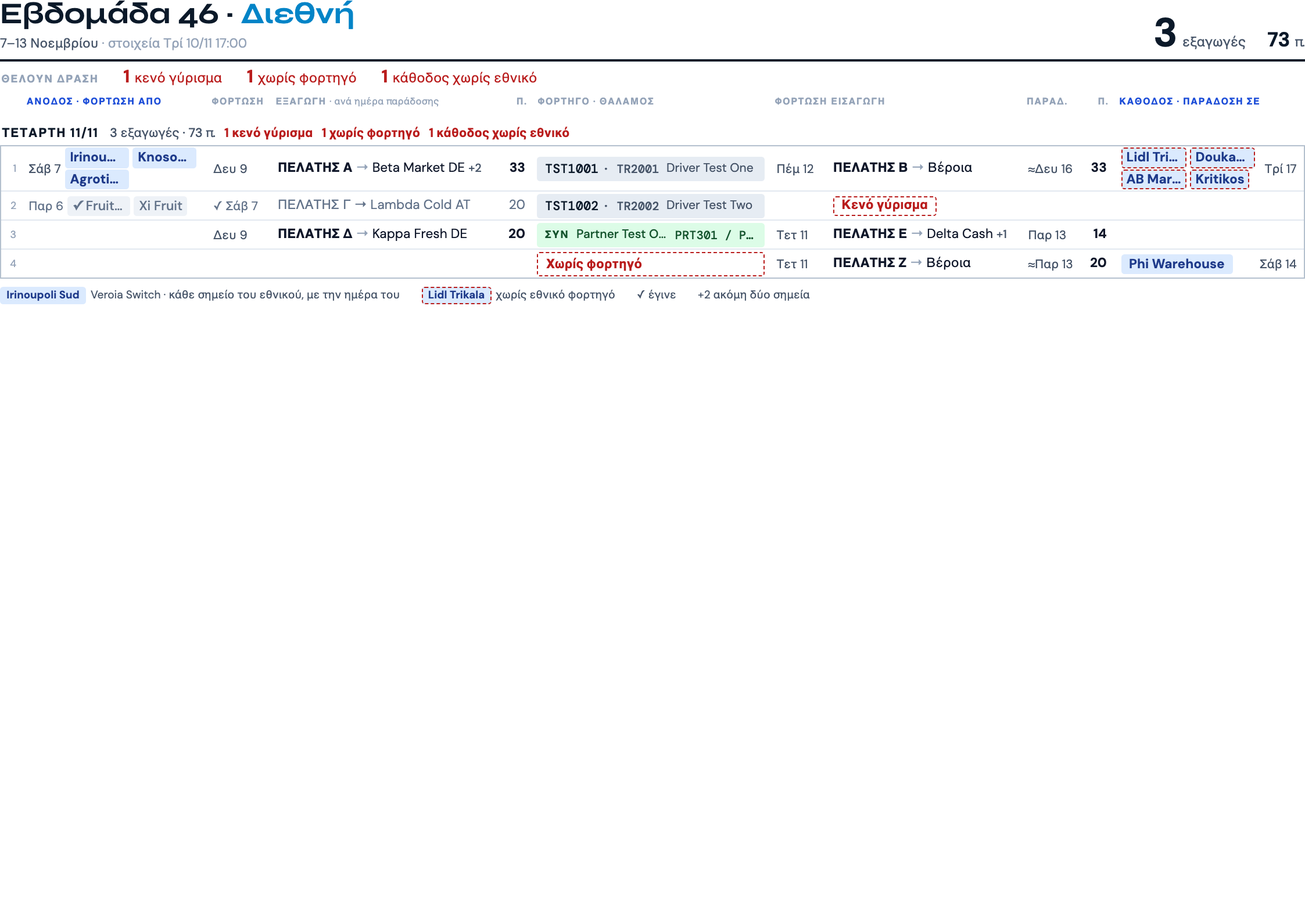
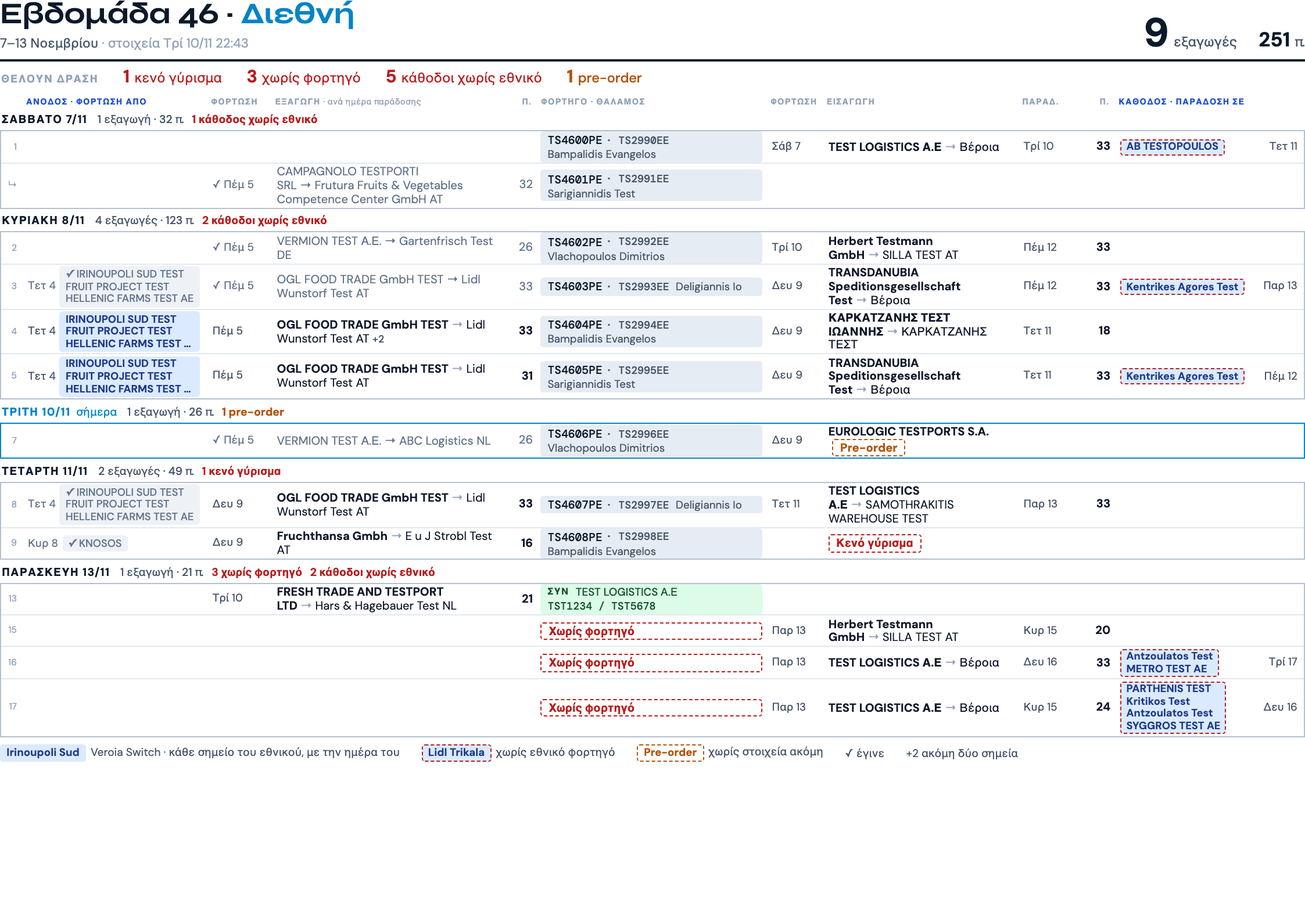
fix(week print): the international sheet holds real names — one national point a line, words wrap, pallets never cut (live week 46, 10/11)

diff --git a/core/week-paper.js b/core/week-paper.js
@@ -18,12 +18,12 @@ const FONTS = 'https://fonts.googleapis.com/css2?family=DM+Sans:wght@400;500;700
 // masthead + strip + column header + legend take 33mm of the first page's 191mm; a later page loses only the
 // repeated column header. A day header costs 1.3 rows.
 const PAGE = Object.freeze({ first: 158, firstNatl: 137, next: 185, minRow: 4.4, maxRow: 6.6, dayUnits: 1.3 });
-function size(nRows, nDays, first) {
-  const F = first || PAGE.first;   // the national sheet has two tables: its fixed part is taller
+function size(nRows, nDays, first, minRow) {
+  const F = first || PAGE.first, MIN = minRow || PAGE.minRow;   // the national sheet has two tables: its fixed part is taller
   const units = Math.max(1, nRows + PAGE.dayUnits * nDays);
   let pages = 1, rh = F / units;
   // .975: a row never breaks in two, so each page boundary wastes up to a part of a row
-  while (rh < PAGE.minRow && pages < 12) { pages++; rh = (F + (pages - 1) * PAGE.next) * 0.975 / units; }
+  while (rh < MIN && pages < 12) { pages++; rh = (F + (pages - 1) * PAGE.next) * 0.975 / units; }
   rh = Math.min(rh, PAGE.maxRow);
   return { pages, rh: +rh.toFixed(2), fs: +Math.max(7.6, Math.min(8.5, rh * 1.7)).toFixed(2) };
 }
@@ -85,7 +85,10 @@ body { padding: 0 !important; margin: 0; }
 .wp .b tr.day.today td { color: var(--blue); }
 .wp .b td.i { color: var(--mut); font-size: .78em; text-align: right; padding: 0 .5em 0 0; font-variant-numeric: tabular-nums; }
 .wp .b td.dt { color: var(--body); font-size: .93em; font-variant-numeric: tabular-nums; }
-.wp .b td.p { text-align: right; font-weight: 700; font-variant-numeric: tabular-nums; }
+.wp .b td.p { text-align: right; font-weight: 700; font-variant-numeric: tabular-nums; padding: 0 .3em 0 0; overflow: visible; }
+/* Real names are long (live week 46, 10/11: «3…» for 33 pallets, destinations cut off whole). The words of a
+   load, of the truck and of the national points take a second line before they are cut: the row grows. */
+.wp .b td.wr { white-space: normal; line-height: 1.16; padding-top: .12em; padding-bottom: .12em; }
 .wp .cl { font-weight: 700; }
 .wp .ar { color: var(--mut); margin: 0 .25em; }
 .wp .more { color: var(--body); font-size: .88em; font-weight: 500; }
@@ -93,18 +96,20 @@ body { padding: 0 !important; margin: 0; }
 .wp .b td.dn, .wp .b td.dn .cl, .wp .b td.dn .ar, .wp .b td.dn .more { color: var(--done); font-weight: 400; }
 .wp .tick { margin-right: .25em; }
 .wp .b td.tkc { padding: 0 .35em; }
-.wp .tk { display: flex; align-items: center; gap: .55em; background: var(--tk); border-radius: 2pt; height: calc(var(--rh) - 1.1mm); line-height: 1;
-  padding: 0 .6em; overflow: hidden; }
+.wp .tk { display: flex; align-items: center; gap: .1em .55em; background: var(--tk); border-radius: 2pt; min-height: calc(var(--rh) - 1.1mm); line-height: 1.1;
+  padding: .12em .6em; overflow: hidden; }
+/* in a row that is already tall (its load or its points take lines) the driver goes under the plates, whole;
+   in a one-line row he stays beside them and is cut: the truck alone never makes a row taller */
+.wp .tk.w { flex-wrap: wrap; }
 .wp .tk .pl { flex: none; font: 500 .97em 'DM Mono', monospace; color: var(--navy); }
 /* the trailer's plate (Pantelis 10/11, «είναι σημαντικό»): a load is found in the yard by its trailer */
 .wp .tk .tr { flex: none; font: 500 .9em 'DM Mono', monospace; color: var(--body); margin-left: -.3em; }
-.wp .tk .dr { color: var(--body); font-size: .93em; overflow: hidden; text-overflow: ellipsis; }
+.wp .tk .dr { color: var(--body); font-size: .93em; max-width: 100%; overflow: hidden; text-overflow: ellipsis; white-space: nowrap; }
 .wp .tk.p { background: #DCFCE7; }
 .wp .tk.p .pl { font: 700 .8em 'DM Sans', sans-serif; letter-spacing: .08em; color: var(--green); }
 .wp .tk.p .dr { color: var(--green); font-weight: 500; }
-/* a partner's plates are free text of any length: they give way before the name does */
-.wp .tk.p .dr { flex: 0 1 auto; min-width: 5em; }
-.wp .tk.p .tr { flex: 0 10 auto; min-width: 0; overflow: hidden; text-overflow: ellipsis; margin-left: 0; color: var(--green); }
+/* a partner's plates are free text of any length: they go to a line of their own before the name is cut */
+.wp .tk.p .tr { flex: 0 1 auto; min-width: 0; max-width: 100%; overflow: hidden; text-overflow: ellipsis; white-space: nowrap; margin-left: 0; color: var(--green); }
 .wp .tk.x { background: none; border: .9pt dashed var(--red); color: var(--red); font-weight: 700; }
 .wp .gap { display: inline-block; border: .9pt dashed var(--red); color: var(--red); font-weight: 700; border-radius: 2pt; padding: 0 .55em; line-height: 1.32; vertical-align: middle; }
 .wp .gap.am { border-color: var(--amber); color: var(--amber); margin-left: .35em; }
@@ -113,16 +118,13 @@ body { padding: 0 !important; margin: 0; }
 .wp .vs.ok { background: #EEF2F7; border-color: #EEF2F7; color: var(--done); font-weight: 500; }
 .wp .vs.x { border: .9pt dashed var(--red); }
 .wp .vs.q { background: none; border: .9pt dashed var(--mut); color: var(--body); }
-/* The national end of a row (owner 10/11): EVERY point in its own box and the day beside them, so the national
-   dispatcher reads from this sheet what he has to bring and to take. Two boxes share a line and are cut
-   («Irinoupo…») before one is left out; a third starts a second line and the row grows (measured 10/11: four
-   boxes on one line were one letter each). The day never shrinks. */
-.wp .vw { display: flex; align-items: center; gap: .3em; min-width: 0; }
-.wp .vw .vp { flex: 1 1 0; min-width: 0; display: flex; flex-wrap: wrap; gap: .12em .3em; padding: .1em 0; }
-.wp .vw .vs { flex: 0 1 auto; min-width: 0; max-width: calc(50% - .25em); }   /* .25em: two never fill the line to the last sub-pixel, so rounding cannot wrap the second */
-.wp .vw .vp.one .vs { max-width: 100%; }
-.wp .vw .vp:not(.one) .vs { padding: 0 .3em; }
-.wp .vw .vd { flex: none; color: var(--body); font-size: .93em; font-variant-numeric: tabular-nums; }
+/* The national end of a row (owner 10/11): EVERY point and the day beside them, so the national dispatcher reads
+   from this sheet what he has to bring and to take. One blue box, one point a line, cut only at the box's edge:
+   as separate boxes on one line each was four letters on the live week (10/11). The day never shrinks. */
+.wp .vw { display: flex; align-items: center; gap: .35em; min-width: 0; }
+.wp .vw .vs { flex: 0 1 auto; min-width: 0; font-size: .9em; line-height: 1.16; padding: .08em .45em; }
+.wp .vw .vs .pt { display: block; overflow: hidden; text-overflow: ellipsis; white-space: nowrap; }
+.wp .vw .vd { flex: none; color: var(--body); font-size: .93em; font-variant-numeric: tabular-nums; white-space: nowrap; }
 .wp .vw.r .vd { margin-left: auto; padding-left: .2em; }
 .wp .vw.dn .vd { color: var(--done); }
 /* national sheet: section titles, the Veroia ledger (one line per day, numbers only, names where a truck is missing) */
@@ -155,10 +157,9 @@ function vsHTML(v, side) {
   if (!v) return '';
   const cls = { done: ' ok', none: ' x', unknown: ' q' }[v.state] || '';
   const pts = v.points && v.points.length ? v.points : ['—'];
-  const boxes = pts.map((n, i) => `<span class="vs${cls}">${v.state === 'done' && i === 0 ? '✓ ' : ''}${_esc(pointName(n))}</span>`).join('');
+  const box = `<span class="vs${cls}">${pts.map((n, i) => `<span class="pt">${v.state === 'done' && i === 0 ? '✓ ' : ''}${_esc(pointName(n))}</span>`).join('')}</span>`;
   const day = v.date ? `<span class="vd">${_esc(v.date)}</span>` : '';
-  const pack = `<div class="vp${pts.length === 1 ? ' one' : ''}">${boxes}</div>`;
-  return `<div class="vw${side === 'dn' ? ' r' : ''}${v.state === 'done' ? ' dn' : ''}">${side === 'dn' ? pack + day : day + pack}</div>`;
+  return `<div class="vw${side === 'dn' ? ' r' : ''}${v.state === 'done' ? ' dn' : ''}">${side === 'dn' ? box + day : day + box}</div>`;
 }
 // x = an export or import side: {client, dest, more, piece, lot, pre}. An import pre-order has no place yet and
 // is drawn by rowHTML (client + tag); an export pre-order keeps its route and gets the tag after it. «ΑΠ» = a piece taken from stock; a lot goes
@@ -168,11 +169,12 @@ function sideHTML(x) {
   return `${x.piece ? '<span class="more">ΑΠ</span> ' : ''}<span class="cl">${_esc(x.client || '—')}</span><span class="ar">→</span>${_esc(x.dest || '—')}${m}` +
     (x.lot ? ' <span class="more">→ ΑΠΟΘΗΚΗ</span>' : '') + (x.pre ? ' <span class="gap am">Pre-order</span>' : '');
 }
-function truckHTML(t) {
+function truckHTML(t, tall) {
+  const w = tall ? ' w' : '';
   if (!t || t.kind === 'none') return '<td class="tkc"><div class="tk x">Χωρίς φορτηγό</div></td>';
   // a partner's plates are free text («ΕΚΑ1234 / Ρ5678»): after the name, which is what the office knows him by
-  if (t.kind === 'par') return `<td class="tkc"><div class="tk p"><span class="pl">ΣΥΝ</span><span class="dr">${_esc(t.name || '—')}</span>${t.plates ? `<span class="tr">${_esc(t.plates)}</span>` : ''}</div></td>`;
-  return `<td class="tkc"><div class="tk"><span class="pl">${_esc(t.plate || '—')}</span>${t.trailer ? `<span class="tr">· ${_esc(t.trailer)}</span>` : ''}<span class="dr">${_esc(t.name || '')}</span></div></td>`;
+  if (t.kind === 'par') return `<td class="tkc"><div class="tk p${w}"><span class="pl">ΣΥΝ</span><span class="dr">${_esc(t.name || '—')}</span>${t.plates ? `<span class="tr">${_esc(t.plates)}</span>` : ''}</div></td>`;
+  return `<td class="tkc"><div class="tk${w}"><span class="pl">${_esc(t.plate || '—')}</span>${t.trailer ? `<span class="tr">· ${_esc(t.trailer)}</span>` : ''}<span class="dr">${_esc(t.name || '')}</span></div></td>`;
 }
 // unknown pallets are «—», never 0; a group with a member off the record says «22+;» (the board's «22 +?»)
 const _unk = (x) => x.pallets == null || x.pallets === '';
@@ -181,13 +183,13 @@ const _arrow = (s) => _esc(s).replace(/ → /g, '<span class="ar">→</span>');
 
 function rowHTML(r, cls) {
   const ex = r.ex, im = r.im;
-  const c = [`<td class="i">${_esc(r.no == null ? '' : r.no)}</td>`, `<td>${vsHTML(r.up, 'up')}</td>`];
+  const c = [`<td class="i">${_esc(r.no == null ? '' : r.no)}</td>`, `<td class="wr">${vsHTML(r.up, 'up')}</td>`];
   if (ex) {
     const g = ex.done ? ' dn' : '';
     c.push(`<td class="dt${g}">${ex.done ? '<span class="tick">✓</span>' : ''}${_esc(ex.date || '—')}</td>`,
-      `<td class="${g.trim()}">${sideHTML(ex)}</td>`, `<td class="p${g}">${_pal(ex)}</td>`);
+      `<td class="wr${g}">${sideHTML(ex)}</td>`, `<td class="p${g}">${_pal(ex)}</td>`);
   } else c.push('<td></td><td></td><td></td>');
-  c.push(truckHTML(r.truck));
+  c.push(truckHTML(r.truck, rowLines(r) > 1));
   // The import's two days stand each beside its own point (Pantelis 10/11): loading before the client, delivery
   // after the destination.
   if (r.gap) c.push('<td></td>', '<td><span class="gap">Κενό γύρισμα</span></td>', '<td></td>', '<td></td>');
@@ -196,9 +198,9 @@ function rowHTML(r, cls) {
     const g = im.done ? ' dn' : '';
     const txt = im.pre ? `<span class="cl">${_esc(im.client || '—')}</span> <span class="gap am">Pre-order</span>` : sideHTML(im);
     c.push(`<td class="dt${g}">${im.done ? '<span class="tick">✓</span>' : ''}${_esc(im.load || '—')}</td>`,
-      `<td class="${g.trim()}">${txt}</td>`, `<td class="dt${g}">${_esc(im.del || '')}</td>`, `<td class="p${g}">${im.pre && !(+im.pallets > 0) ? '' : _pal(im)}</td>`);   // a pre-order's 0 is nobody's count
+      `<td class="wr${g}">${txt}</td>`, `<td class="dt${g}">${_esc(im.del || '')}</td>`, `<td class="p${g}">${im.pre && !(+im.pallets > 0) ? '' : _pal(im)}</td>`);   // a pre-order's 0 is nobody's count
   } else c.push('<td></td><td></td><td></td><td></td>');
-  c.push(`<td>${vsHTML(r.dn, 'dn')}</td>`);
+  c.push(`<td class="wr">${vsHTML(r.dn, 'dn')}</td>`);
   return `<tr class="${cls.join(' ')}">${c.join('')}</tr>`;
 }
 
@@ -231,6 +233,14 @@ function workWords(t) {
   ].filter(Boolean);
 }
 
+// Letters one line of a column takes, at the sheet's own type (CAP), and the lines a row needs (1–4).
+const CAP = Object.freeze({ ex: 30, im: 26 });
+function rowLines(r) {
+  const len = (x) => (x ? String(x.client || '').length + String(x.dest || '').length + 3 + (x.more ? 3 : 0) + (x.pre ? 10 : 0) + (x.lot ? 10 : 0) : 0);
+  const vs = (v) => (v && v.points ? v.points.length : 0);
+  return Math.min(4, Math.max(1, vs(r.up), vs(r.dn), Math.ceil(len(r.ex) / CAP.ex), Math.ceil(len(r.im) / CAP.im)));
+}
+
 /** p = { week, range, stamp, days: [{ head, today, rows: [row] }] }; row = { no, up, ex, truck, im, gap, dn };
  *  up / dn = { points, date, state }; truck = { kind, plate, trailer, name } | { kind:'par', name, plates }; im = { load, del, … }
  *  (see rowHTML / vsHTML / sideHTML for the fields; a side's pallets: null = unknown, palMiss = partly known;
@@ -238,10 +248,12 @@ function workWords(t) {
 function intlHTML(p) {
   const days = (p.days || []).filter((d) => d.rows && d.rows.length);
   const all = days.reduce((a, d) => a.concat(d.rows), []);
-  // a national end with more than two points takes a second line (two boxes a line): the page arithmetic counts it
-  const lines = (v) => (v && v.points ? Math.max(1, Math.ceil(v.points.length / 2)) : 1);
-  const extra = all.reduce((n, r) => n + Math.max(lines(r.up), lines(r.dn)) - 1, 0);
-  const sz = size(all.length + extra * 0.9, days.length), T = tally(all);
+  // Rows grow when their words take more lines: the page arithmetic counts them — one line per national point,
+  // and the letters of a load or a truck against what one line of its column takes (measured on the live week
+  // 46, 10/11). An estimate, on the generous side: a sheet that leaves room is better than one row alone on a
+  // second page. A line more costs .9 of a row, and single rows may be 4mm here (the type stays 7.6pt).
+  const extra = all.reduce((n, r) => n + (rowLines(r) - 1) * 0.9, 0);
+  const sz = size(all.length + extra, days.length, PAGE.first, 4), T = tally(all);
   const body = [];
   for (const d of days) {
     const t = tally(d.rows);
@@ -268,7 +280,7 @@ function intlHTML(p) {
   return `<link rel="stylesheet" href="${FONTS}" media="none" onload="this.media='all'"><style>${CSS}
 @page { @bottom-left { content: "Petras Group TMS · ${title} · στοιχεία ${_esc(p.stamp)}"; font: 7pt 'DM Sans', sans-serif; color: #94A3B8; } }
 .wp { --fs:${sz.fs}pt; --rh:${sz.rh}mm; }
-.wp col.k-i{width:1.6%} .wp col.k-up{width:14.2%} .wp col.k-ed{width:4.9%} .wp col.k-ex{width:17.6%} .wp col.k-p{width:2.5%} .wp col.k-tk{width:18.2%} .wp col.k-id{width:4.3%} .wp col.k-im{width:15%} .wp col.k-dl{width:4.6%} .wp col.k-dn{width:14.6%}
+.wp col.k-i{width:1.6%} .wp col.k-up{width:14.2%} .wp col.k-ed{width:4.9%} .wp col.k-ex{width:17.6%} .wp col.k-p{width:2.8%} .wp col.k-tk{width:17.6%} .wp col.k-id{width:4.3%} .wp col.k-im{width:15%} .wp col.k-dl{width:4.6%} .wp col.k-dn{width:14.6%}
 </style><div class="wp">
 <header class="mast"><div><h1>Εβδομάδα ${_esc(p.week)} · <em>Διεθνή</em></h1><div class="sub">${_esc(p.range)} <i>· στοιχεία ${_esc(p.stamp)}</i></div></div>
 <div class="kpi"><span class="big"><b>${T.exports}</b><span>${T.exports === 1 ? 'εξαγωγή' : 'εξαγωγές'}</span></span><span class="mid"><b>${T.pallets}</b><span>π.${T.palUnknown ? ' +;' : ''}</span></span></div></header>

diff --git a/tests/week-paper.test.js b/tests/week-paper.test.js
@@ -44,8 +44,8 @@ test('rows: a day without rows is not printed, today is the one blue day, unknow
   assert.ok(!h.includes('ΤΕΤΑΡΤΗ 7/10'));
   assert.ok(h.includes('<td class="p">—</td>'), 'unknown export pallets are «—»');
   assert.ok(h.includes('20 π. +;'), 'a day sum with an unknown says so');
-  assert.ok(h.includes('<span class="vs q">Doukato</span><span class="vs q">Epsilon</span>'), 'a national read that has not answered is its own state');
-  assert.ok(h.includes('<span class="vs ok">✓ Irinoupoli Sud</span><span class="vs ok">Beta Farm</span>'), 'the point, not the town; done = ✓');
+  assert.ok(h.includes('<span class="vs q"><span class="pt">Doukato</span><span class="pt">Epsilon</span></span>'), 'a national read that has not answered is its own state');
+  assert.ok(h.includes('<span class="vs ok"><span class="pt">✓ Irinoupoli Sud</span><span class="pt">Beta Farm</span>'), 'the point, not the town; done = ✓');
   assert.ok(h.includes('Partner &lt;One&gt;') && !h.includes('<One>'), 'names are escaped');
   assert.ok(h.includes('1 εισαγωγή') === false && h.includes('1 εξαγωγή · 20 π.'), 'the day header counts its own rows');
 });
@@ -65,7 +65,7 @@ test('stock marks and partly known pallets are said, and the legend explains onl
   assert.strictEqual((preEx.slice(preEx.indexOf('<tbody>'), preEx.indexOf('</tbody>')).match(/>Pre-order</g) || []).length, 2, 'an export pre-order is tagged too, each once');
   assert.ok(preEx.includes('<b>2</b>pre-order'));
   const pre0 = one({ no: 1, truck: { kind: 'none' }, im: im({ pre: true, pallets: 0 }) });
-  assert.ok(pre0.includes('<td class="p"></td><td></td></tr>'), 'no «0» for a pre-order');
+  assert.ok(pre0.includes('<td class="p"></td><td class="wr"></td></tr>'), 'no «0» for a pre-order');
 });
 
 test('a day of imports only says «εισαγωγές», never «0 εξαγωγές»', () => {
@@ -104,11 +104,11 @@ test('owner + Pantelis 10/11: every national point with its day, the import days
       im: im({ load: 'Τρί 10', del: '≈Τετ 11', dest: 'Βέροια' }), dn: { points: ['Delta Cash', 'Epsilon Market'], date: 'Πέμ 12', state: 'none' } },
     { no: 2, ex: ex({}), truck: { kind: 'par', name: 'Partner One', plates: 'PRT-1 / PRT-2' } }] }] });
   // all three loading points, none hidden behind «+2», the day first
-  assert.ok(h.includes('<div class="vw"><span class="vd">Σάβ 7</span><div class="vp"><span class="vs">Alpha Depot</span><span class="vs">Beta Farm</span><span class="vs">Gamma Coop</span></div></div>'));
+  assert.ok(h.includes('<div class="vw"><span class="vd">Σάβ 7</span><span class="vs"><span class="pt">Alpha Depot</span><span class="pt">Beta Farm</span><span class="pt">Gamma Coop</span></span></div>'));
   // both delivery points, red dashed (no national truck), the day last
-  assert.ok(h.includes('<div class="vw r"><div class="vp"><span class="vs x">Delta Cash</span><span class="vs x">Epsilon Market</span></div><span class="vd">Πέμ 12</span></div>'));
+  assert.ok(h.includes('<div class="vw r"><span class="vs x"><span class="pt">Delta Cash</span><span class="pt">Epsilon Market</span></span><span class="vd">Πέμ 12</span></div>'));
   // the import: loading day before it, delivery day after it, in cells of their own
-  assert.ok(/<td class="dt">Τρί 10<\/td><td class="">.*?Βέροια<\/td><td class="dt">≈Τετ 11<\/td>/.test(h));
+  assert.ok(/<td class="dt">Τρί 10<\/td><td class="wr">.*?Βέροια<\/td><td class="dt">≈Τετ 11<\/td>/.test(h));
   assert.ok(h.includes('<span class="pl">TST-1</span><span class="tr">· TRL-9</span><span class="dr">Driver 1</span>'));
   assert.ok(h.includes('<span class="dr">Partner One</span><span class="tr">PRT-1 / PRT-2</span>'));
   // every row has the eleven cells of the header
@@ -246,4 +246,16 @@ test('national ledger: an overdue trip without a truck stays («Εκκρεμή»
   const p2 = WP.natlModel(b, m2, { numbers: WN5L.boardNumbers(m2), platesOf: () => [], dayOf: () => null });
   assert.strictEqual(p2.noDay, 1);
   assert.ok(WP.natlHTML(p2).includes('1 στάση Βέροιας χωρίς ημέρα δεν μετρήθηκε'));
+});
+
+test('live week 46 (10/11): long names take lines, and the page arithmetic counts them', () => {
+  const long = { no: 1, up: { points: ['A', 'B', 'C'], date: 'Τετ 4', state: 'plan' }, ex: ex({ client: 'A CLIENT WITH A LONG NAME GmbH', dest: 'A Destination With A Long Name AT' }), truck: own(1) };
+  const short = { no: 2, ex: ex({}), truck: own(2) };
+  const mk = (r) => ({ week: 1, range: 'r', stamp: 's', days: [{ head: 'D', rows: Array.from({ length: 24 }, () => r) }] });
+  const rh = (h) => +h.match(/--rh:([\d.]+)mm/)[1];
+  // the same number of rows needs more room when each takes three lines: shorter rows, or a page more
+  assert.ok(rh(WP.intlHTML(mk(long))) < rh(WP.intlHTML(mk(short))));
+  // the cells that hold words may wrap; pallets and days never do
+  const h = WP.intlHTML(mk(long));
+  assert.ok(h.includes('<td class="wr">') && h.includes('<td class="p">33</td>') === false && /<td class="p">20<\/td>/.test(h));
 });

diff --git a/tests/critics/wi4-board-rig.js b/tests/critics/wi4-board-rig.js
@@ -3885,7 +3885,7 @@ async function scnPaper(browser, origin) {
       trs: cnt(/<tr class="(?!day)/g), nRows: rows.length, days: cnt(/<tr class="day/g), nDays: p.days.filter((d) => d.rows.length).length,
       gaps: [(tbody.match(/>Κενό γύρισμα</g) || []).length, strip('κεν')], noTruck: [(tbody.match(/class="tk x"/g) || []).length, strip('χωρίς φορτηγό')],
       dn: [rows.filter((x) => x.dn && x.dn.state === 'none').length, strip('κάθοδο')], up: [rows.filter((x) => x.up && x.up.state === 'none').length, strip('άνοδο')],
-      vsBoxes: [(tbody.match(/class="vs/g) || []).length, rows.reduce((n, x) => n + (x.up ? x.up.points.length : 0) + (x.dn ? x.dn.points.length : 0), 0)],
+      vsBoxes: [(tbody.match(/class="pt"/g) || []).length, rows.reduce((n, x) => n + (x.up ? x.up.points.length : 0) + (x.dn ? x.dn.points.length : 0), 0)],
       // owner + Pantelis 10/11: each national end carries its day, each own truck with a trailer on the board prints it
       vsDays: rows.filter((x) => x.up || x.dn).map((x) => [x.up && x.up.date, x.dn && x.dn.date]),
       trailers: [rows.filter((x) => x.truck.kind === 'own' && x.truck.trailer).length, (tbody.match(/<span class="tr">· /g) || []).length],
@@ -3898,7 +3898,7 @@ async function scnPaper(browser, origin) {
   ok(scn, 'rows and day headers drawn = rows and days of the model', r.trs === r.nRows && r.days === r.nDays && r.nRows > 10, [r.trs, r.nRows, r.days, r.nDays]);
   ok(scn, 'strip counts = marks drawn (empty returns, no truck, descents, ascents)', r.gaps[0] === r.gaps[1] && r.noTruck[0] === r.noTruck[1] && r.dn[0] === r.dn[1] && r.up[0] === r.up[1],
     { gaps: r.gaps, noTruck: r.noTruck, dn: r.dn, up: r.up });
-  ok(scn, 'one blue box per POINT of every Veroia Switch end (none behind «+N»), and the week holds both kinds', r.vsBoxes[0] === r.vsBoxes[1] && r.vsBoxes[0] >= 2, r.vsBoxes);
+  ok(scn, 'one line per POINT in the blue box of every Veroia Switch end (none behind «+N»), and the week holds both kinds', r.vsBoxes[0] === r.vsBoxes[1] && r.vsBoxes[0] >= 2, r.vsBoxes);
   ok(scn, 'every Veroia Switch end prints its own day beside its points', r.vsDays.length >= 2 && r.vsDays.every((d) => d.every((x) => x == null || /^≈?\S+ \d+$/.test(x))), r.vsDays);
   ok(scn, 'every own truck that has a trailer prints its plate', r.trailers[0] === r.trailers[1] && r.trailers[0] >= 1, r.trailers);
   ok(scn, 'no code, no jargon, no broken value on the sheet', !r.bad.length, r.bad);

diff --git a/sw.js b/sw.js
@@ -7,7 +7,7 @@
 //   - Offline banner via postMessage to all clients
 // ═══════════════════════════════════════════════════════════
 
-const SW_VERSION = '1794580000';
+const SW_VERSION = '1794590000';
 
 // Το vendor/leaflet/* ΔΕΝ μπαίνει στο APP_SHELL επίτηδες: το pre-cache στο
 // install θα κατέβαζε 228 KB σε κάθε χρήστη, ακυρώνοντας το lazy loading της

diff --git a/app.html b/app.html
@@ -123,7 +123,7 @@
 <script src="core/countries.js?v=1788767479"></script>
 <script src="core/utils.js?v=1793482508"></script>
 <!-- The printed week (owner 10/11): pure, plain rows in and HTML out; the board modules feed it. -->
-<script src="core/week-paper.js?v=1794580000"></script>
+<script src="core/week-paper.js?v=1794590000"></script>
 <script src="core/tms-week.js?v=1791046616"></script>
   <script src="core/share-helpers.js?v=1790108919"></script>
 <script src="core/ui.js?v=1792010591"></script>

diff --git a/docs/sessions/2026-11-10-dimitris-week-print-points.md b/docs/sessions/2026-11-10-dimitris-week-print-points.md
@@ -5,3 +5,4 @@
 - **Έλεγχοι:** σουίτα node 1401 / 0 αποτυχίες· rig `wi4-board-rig.js paper` GO (14), `wn5-board-rig.js` ολόκληρο GO· `/code-review high`: 6 ευρήματα, διορθώθηκαν 5 (αναδίπλωση δύο κουτιών, πινακίδες συνεργάτη που έσβηναν το όνομα, ίδιο σημείο δύο φορές, παλιά σχήματα δεδομένων, διπλός κανόνας)· ένα μένει: η συνθετική εβδομάδα του rig δεν έχει άκρο με πολλά σημεία, το καλύπτει μόνο το unit test. Οι διορθώσεις έγιναν μετά το review και πέρασαν τη σουίτα και το rig, όχι δεύτερο review.
 - **Τι ΔΕΝ ελέγχθηκε:** εκτύπωση με πραγματική εβδομάδα μετά από αυτή την αλλαγή· πραγματικό μήκος πινακίδων θαλάμων και ονομάτων σημείων στο πλάτος των στηλών.
 - **Τι μένει:** λέξη «Εκτύπωση» στην πάνω μπάρα των Εθνικών δεν χωρά στα 1440 χωρίς να φύγει κάτι άλλο (απόφαση owner αν τη θέλει).
+- **Βράδυ, μετά το merge του #309 (`fix/week-print-fit`):** έλεγχος στη ζωντανή εβδομάδα 46: στοιχεία σωστά (18 γραμμές, θάλαμος σε 14/14 ιδιόκτητα, ημέρα σε κάθε άκρο), αλλά με πραγματικά ονόματα το φύλλο δεν διαβαζόταν (31 από 32 κουτιά κομμένα). Διόρθωση: ένα σημείο ανά σειρά μέσα στο κουτί, οι λέξεις παίρνουν δεύτερη σειρά, η στήλη παλετών δεν κόβεται, ο υπολογισμός σελίδων μετρά τις ψηλές γραμμές. `?v=` week-paper / `SW_VERSION` 1794590000. Μάθημα: η συνθετική εβδομάδα έχει κοντά ονόματα· το χαρτί κρίνεται με ονόματα πραγματικού μήκους.

diff --git a/docs/SESSION.md b/docs/SESSION.md
@@ -12,6 +12,7 @@ What is live (commit, versions, flags) is not kept here: it goes stale within ho
 ## Now (each owner edits only their own lines)
 
 **In flight** (who · branch · topic)
+- dimitris · `fix/week-print-fit` · Χαρτί Διεθνών: χωρά τα πραγματικά ονόματα (έλεγχος ζωντανής W46 μετά το #309): ένα σημείο εθνικού ανά σειρά, λέξεις σε δεύτερη σειρά, παλέτες ποτέ κομμένες· μόνο front end, SW_VERSION 1794590000 (`docs/sessions/2026-11-10-dimitris-week-print-points.md`)
 - dimitris · `feat/week-print-points` · Χαρτί εβδομάδας Διεθνών μετά την πρώτη εκτύπωση (Παντελής + owner 10/11): ημέρες δίπλα σε κάθε σημείο, όλα τα σημεία εθνικού, θάλαμος· Εθνικά: κουμπί εκτύπωσης με πλαίσιο· μόνο front end, ?v= / SW_VERSION 1794580000 (`docs/sessions/2026-11-10-dimitris-week-print-points.md`)
 - dimitris · `feat/week-print-natl` · Εθνικά v5: χαρτί εβδομάδας A4 (πίνακας Βέροιας + δρομολόγια, πινακίδα διεθνούς στο μπλε κουτί, owner 10/11 «Ναι, με πινακίδα»)· `WN5.printWeek`, ανάγνωση `/costs/rt?order_ids=` στην εκτύπωση· μόνο front end, **πάνω στο #306**, ?v= / SW_VERSION 1794570000 (`docs/sessions/2026-11-10-dimitris-week-print-natl.md`)
 - dimitris · `feat/week-print-papers` · Weekly Διεθνών: νέο χαρτί εβδομάδας A4 (σχέδιο owner 10/11, «οκ το προχωράμε»): ο πίνακας v4 σε χαρτί, φορτηγό στη μέση, Veroia Switch σε μπλε κουτί, «Θέλουν δράση»· `core/week-paper.js` + `WIV2.printWeek`· μόνο front end, ?v= / SW_VERSION 1794560000· μένει το χαρτί των Εθνικών v5 (δικό του PR, θέλει απόφαση owner για την πινακίδα διεθνούς) (`docs/sessions/2026-11-10-dimitris-week-print-intl.md`)

diff --git a/docs/design/week-print/README.md b/docs/design/week-print/README.md
@@ -40,6 +40,18 @@
 
 Η ημέρα παράδοσης της εξαγωγής δεν έχει δική της στήλη: είναι η κεφαλίδα της ομάδας.
 
+### Διόρθωση 10/11 βράδυ, μετά τον έλεγχο στη ζωντανή εβδομάδα 46
+
+Με πραγματικά ονόματα το φύλλο του #309 έβγαινε στριμωγμένο: σημεία εθνικού κομμένα στα 4 γράμματα, παλέτες «3…», προορισμοί που χάνονταν. Η δεύτερη εικόνα πάνω είναι με συνθετικά ονόματα στο μήκος των πραγματικών.
+
+| Σημείο | #309 | Τώρα |
+|---|---|---|
+| Σημεία εθνικού | χωριστά κουτιά, δύο ανά σειρά | ένα μπλε κουτί, ένα σημείο ανά σειρά, κόβεται μόνο στην άκρη του κουτιού |
+| Πελάτης → προορισμός | μία σειρά, κομμένο | παίρνει δεύτερη (ή τρίτη) σειρά, η γραμμή ψηλώνει |
+| Οδηγός | δίπλα στις πινακίδες, κομμένος | κάτω από τις πινακίδες όταν η γραμμή είναι ήδη ψηλή· αλλιώς δίπλα, κομμένος |
+| Παλέτες | στήλη 2,5%, «3…» | στήλη 2,8%, δεν κόβεται ποτέ |
+| Σελίδες | ίδιες με πριν | οι ψηλές γραμμές μετρούν στον υπολογισμό· εβδομάδα με πολλά μακριά ονόματα παίρνει περισσότερο χαρτί |
+
 # Εκτύπωση εβδομάδας Εθνικών v5: σχέδιο και υλοποίηση
 
 Ίδια εγκεκριμένη σειρά σχεδίων (10/11/2026· πινακίδα διεθνούς: «Ναι, με πινακίδα»). Η υλοποίηση πάνω στη συνθετική εβδομάδα του rig (`node tests/critics/wn5-board-rig.js paper --shots <φάκελος>` γράφει το `natl-paper.html`):
